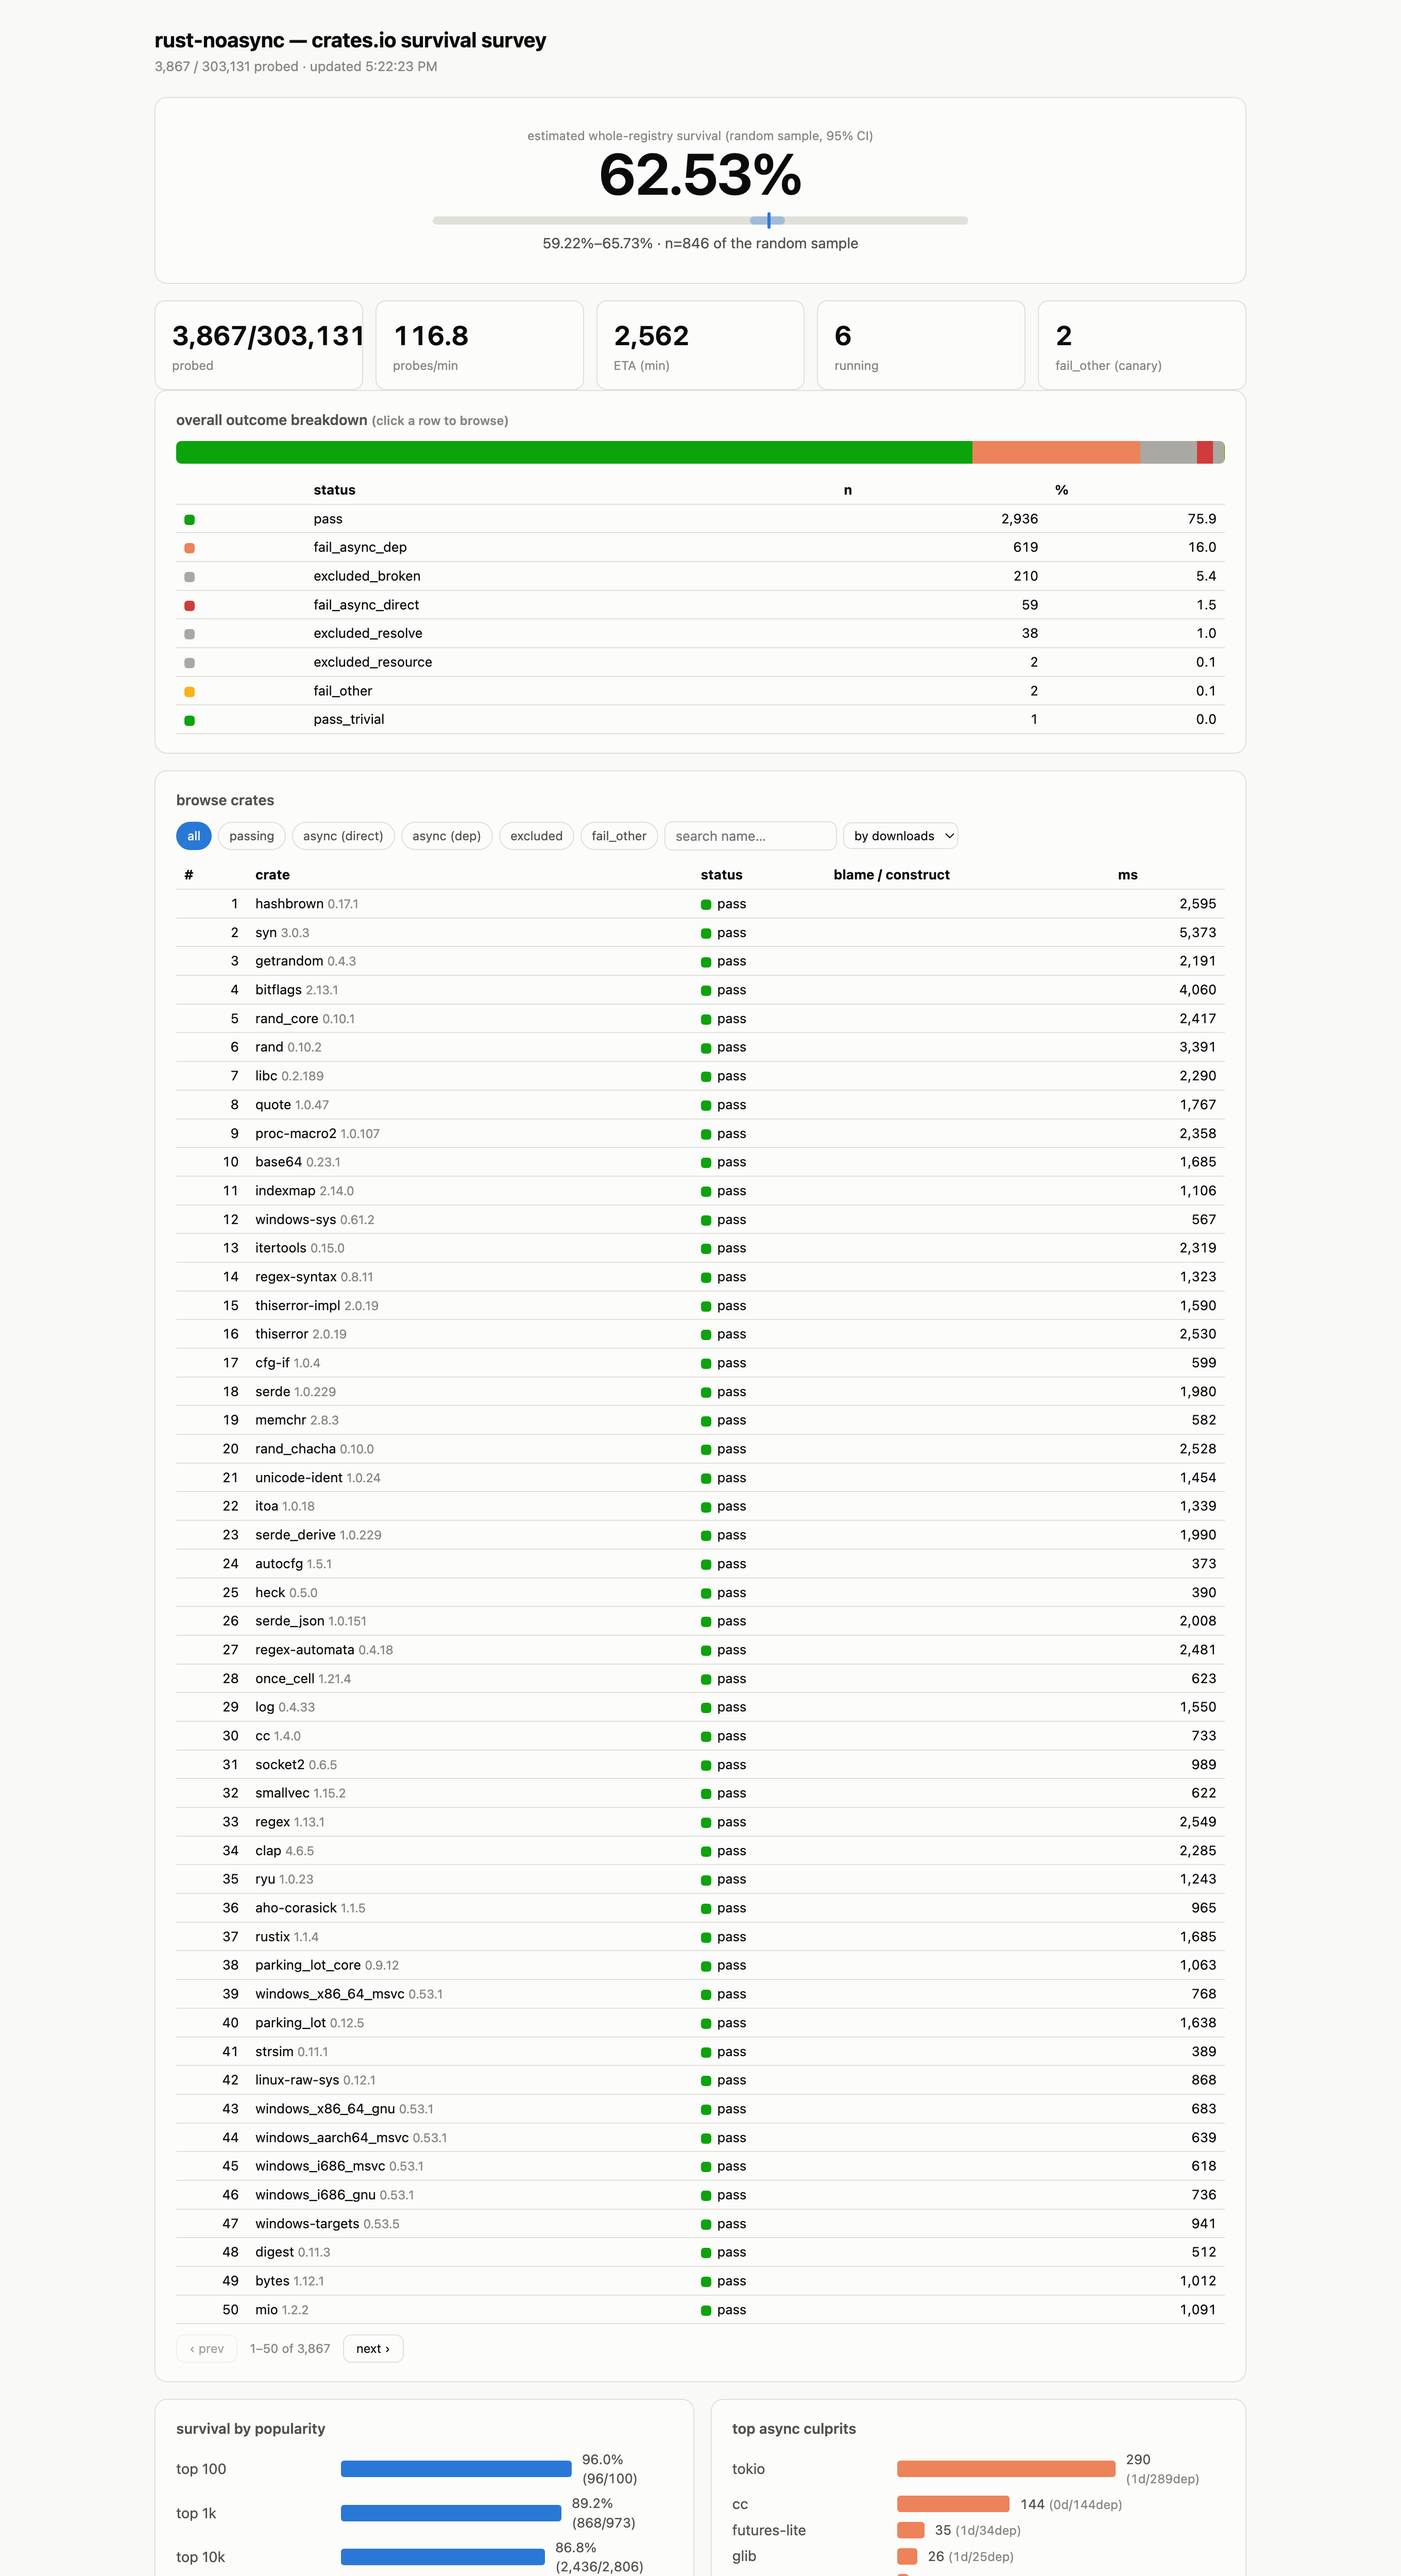
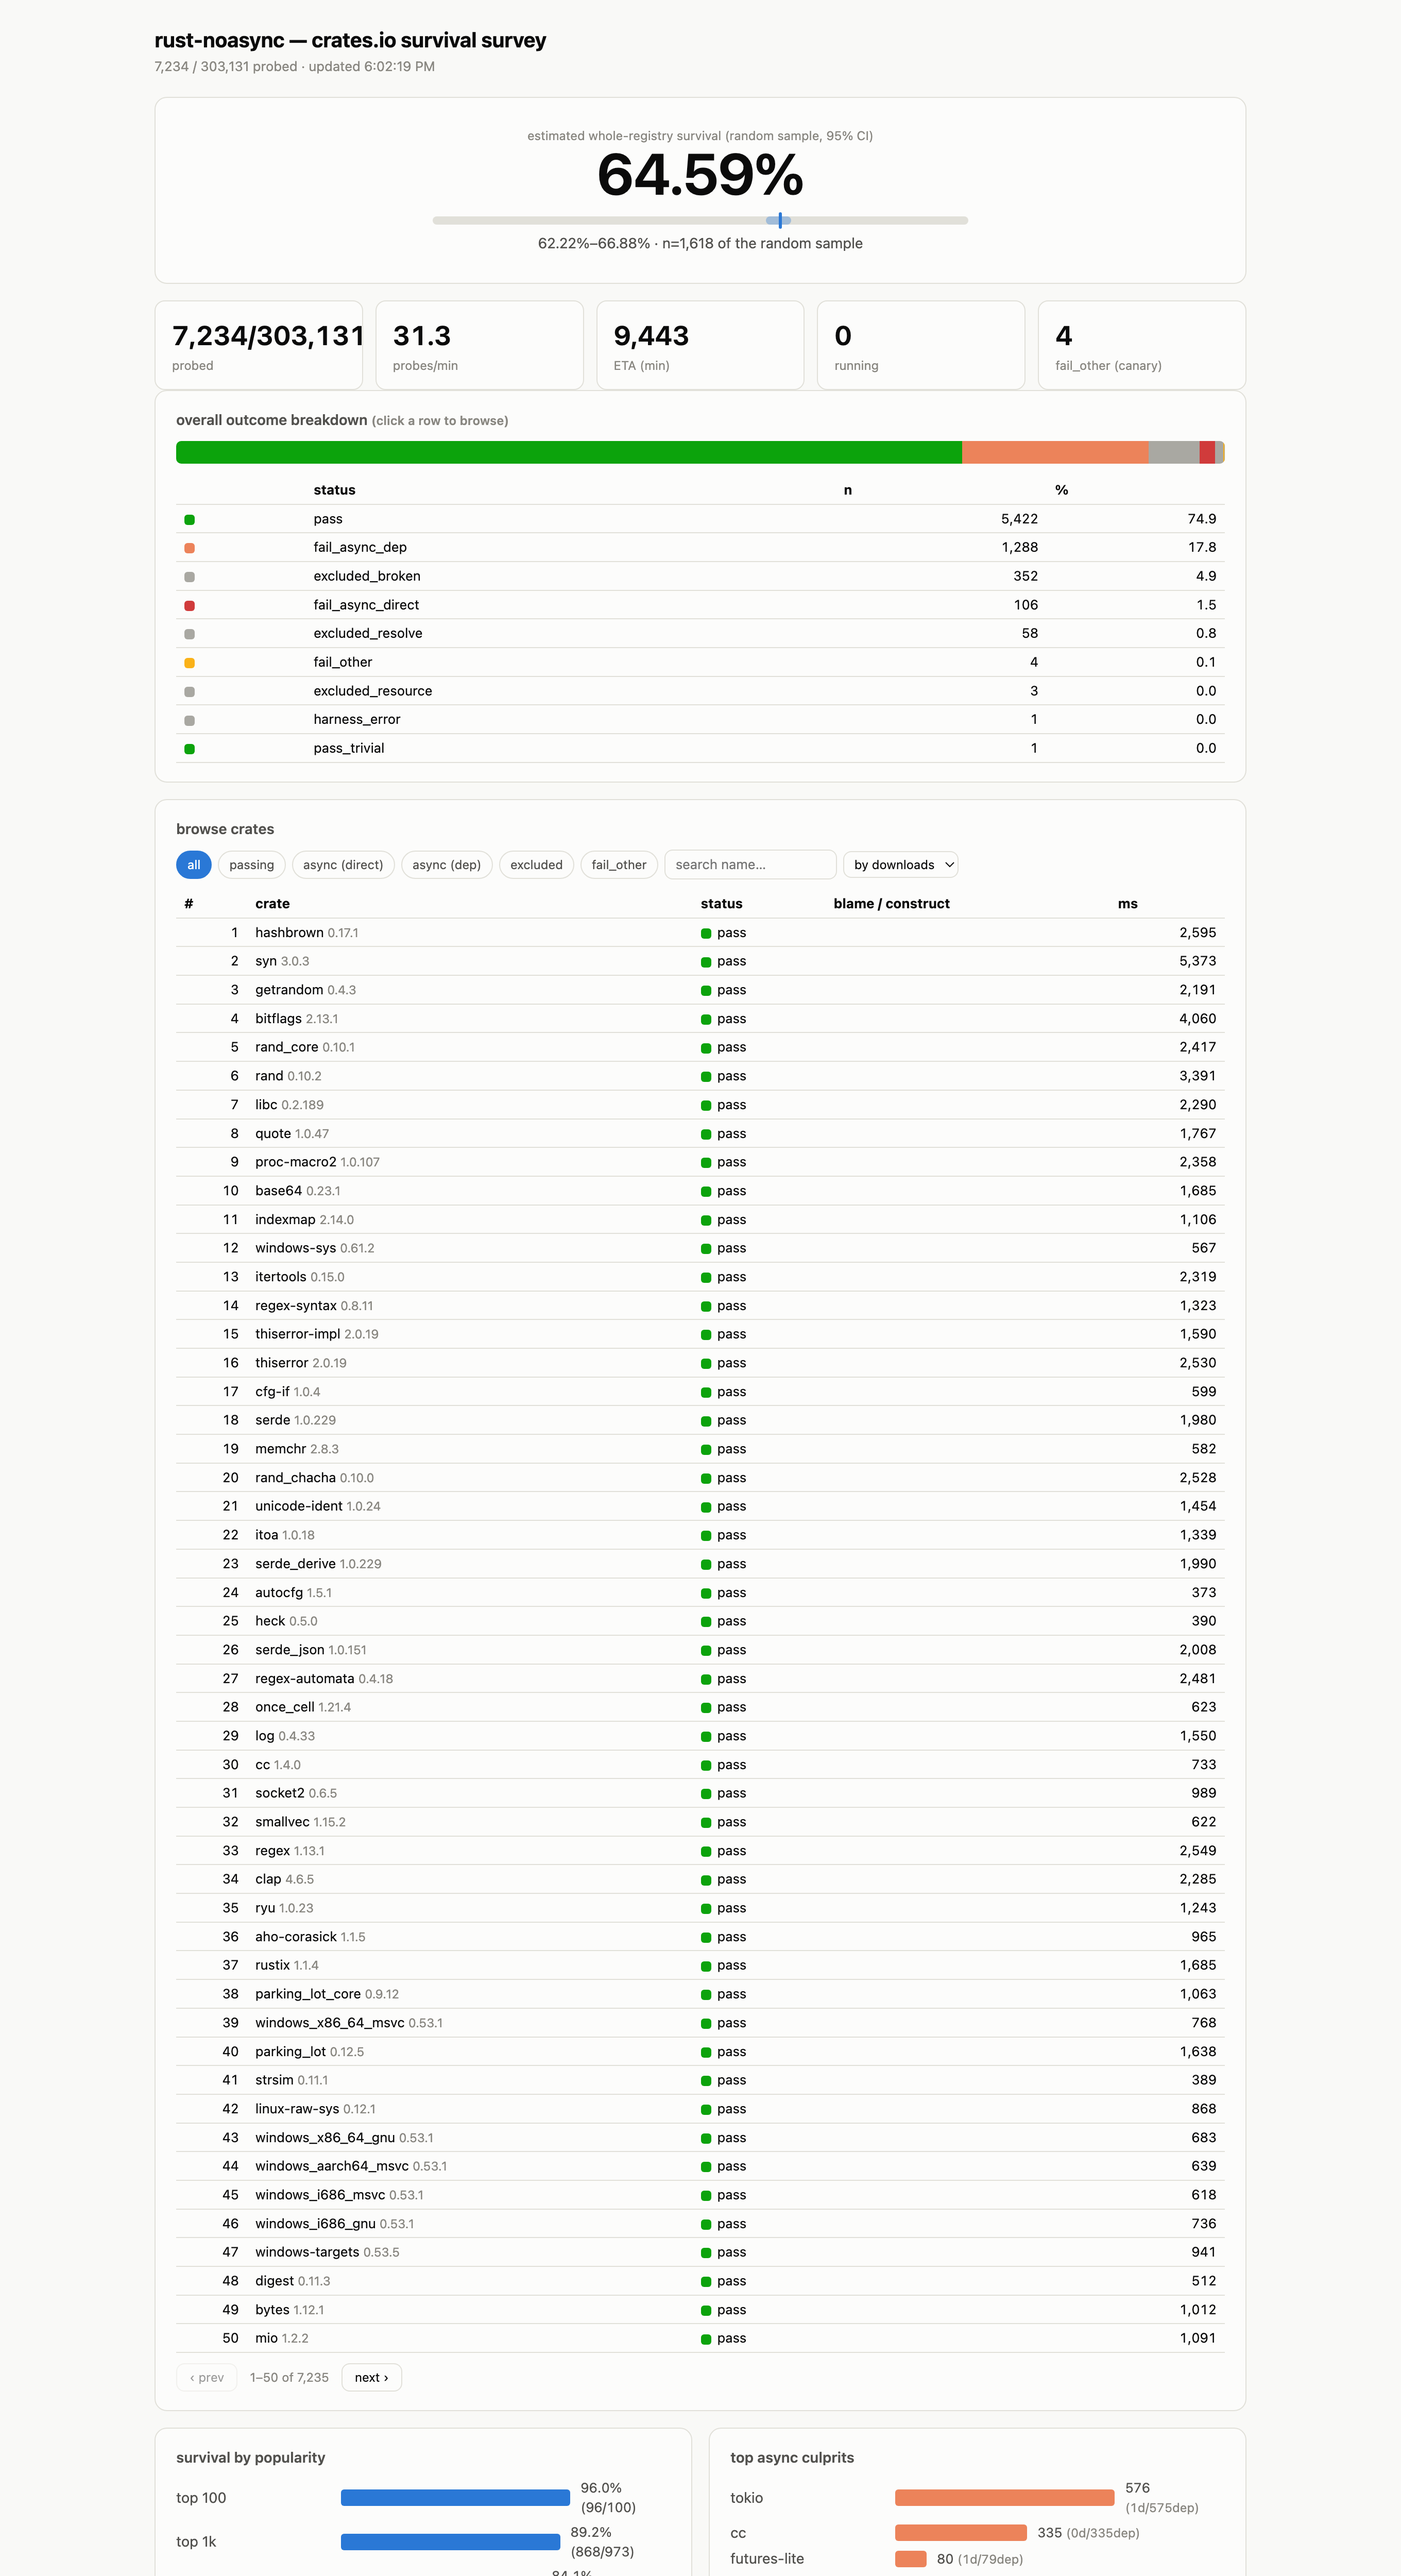
Add make-screenshot.sh to regenerate the dashboard image
Portable helper: finds Chrome/Chromium, starts the dashboard if it isn't
already up (and stops it again), renders the ?static one-shot view, and writes
docs/dashboard.png. Referenced from the README.

diff --git a/README.md b/README.md
@@ -14,7 +14,8 @@ after every crate.
 ## Results so far
 
 _Snapshot at 3,867 / 303,131 crates probed (1.3%). Numbers move as the run
-progresses; the dashboard is live._
+progresses; the dashboard is live. Regenerate this image with
+`./make-screenshot.sh`._
 
 ![dashboard](docs/dashboard.png)
 
